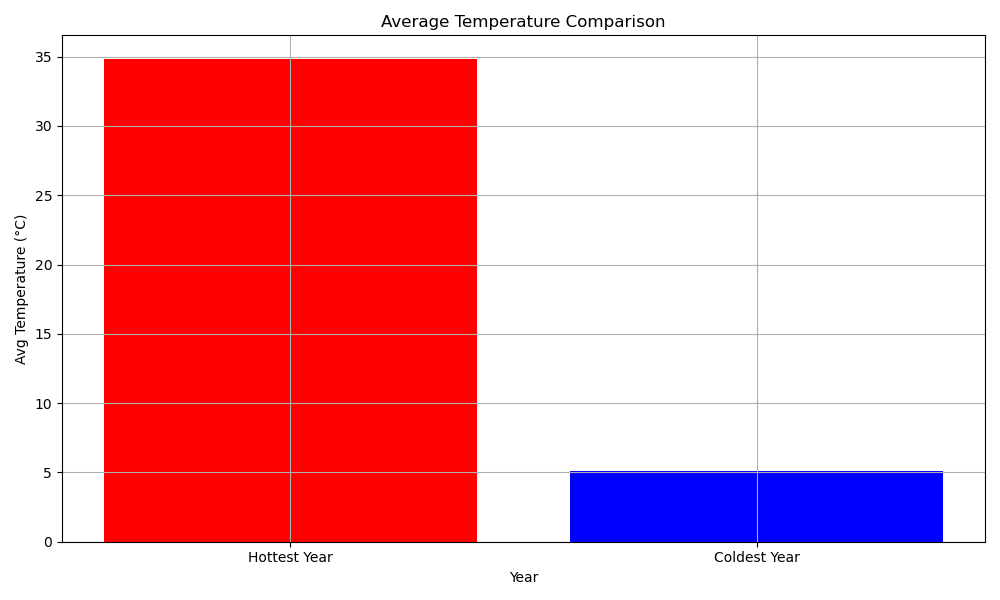
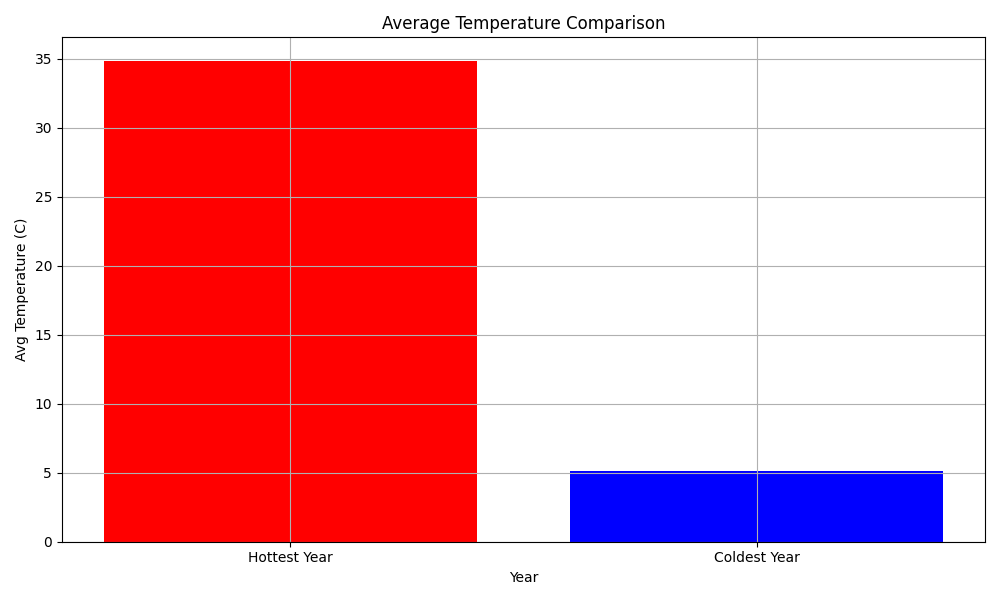
fixed error where file would not be read due to encoding of degree symbol.

diff --git a/connor_question2.py b/connor_question2.py
@@ -2,14 +2,14 @@ import matplotlib.pyplot as plt
 import pandas as pd
 import csv
 # Climate Change Data Analysis
-with open('climate_change_dataset_rounded.csv','r', encoding="latin1") as f:
+with open('climate_change_dataset_rounded.csv','r') as f:
     sv_reader=csv.reader(f)
     header_row = next(sv_reader)
     print(header_row)
     data = pd.read_csv("climate_change_dataset_rounded.csv", dtype= {
     "Country": "category",
     "Year": "int16",
-    "Avg Temperature (°C)": "float32",
+    "Avg Temperature (C)": "float32",
     "CO2_Emissions": "float32",
     "Sea Level Rise (mm)": "float32",
     "Rainfall (mm)": "float32",
@@ -21,24 +21,24 @@ with open('climate_change_dataset_rounded.csv','r', encoding="latin1") as f:
 #making the data more readable
 data['Country'] = data['Country'].astype('category')
 data['Year'] = data['Year'].astype('int16')
-data['Avg Temperature (°C)'] = data['Avg Temperature (°C)'].astype('float32')
+data['Avg Temperature (C)'] = data['Avg Temperature (C)'].astype('float32')
 data['Sea Level Rise (mm)'] = data['Sea Level Rise (mm)'].astype('float32')
 data['Rainfall (mm)'] = data['Rainfall (mm)'].astype('float32')
 data['Population'] = data['Population'].astype('int32')
 data['Renewable Energy (%)'] = data['Renewable Energy (%)'].astype('float32')
 data['Forest Area (%)'] = data['Forest Area (%)'].astype('float32')
 #The hottest year in the world
-hottest_year = data.loc[data['Avg Temperature (°C)'].idxmax()]
-print(f"The hottest year in the world is {hottest_year['Year']} with an average temperature of {hottest_year['Avg Temperature (°C)']}°C.")
+hottest_year = data.loc[data['Avg Temperature (C)'].idxmax()]
+print(f"The hottest year in the world is {hottest_year['Year']} with an average temperature of {hottest_year['Avg Temperature (C)']}°C.")
 #The coldest year in the world
-coldest_year = data.loc[data['Avg Temperature (°C)'].idxmin()]
-print(f"The coldest year in the world is {coldest_year['Year']} with an average temperature of {coldest_year['Avg Temperature (°C)']}°C.")
+coldest_year = data.loc[data['Avg Temperature (C)'].idxmin()]
+print(f"The coldest year in the world is {coldest_year['Year']} with an average temperature of {coldest_year['Avg Temperature (C)']}°C.")
 #Comparing the average temperature of the hottest and coldest year
 plt.figure(figsize=(10, 6))
-plt.bar(['Hottest Year', 'Coldest Year'], [hottest_year['Avg Temperature (°C)'], coldest_year['Avg Temperature (°C)']], color=['red', 'blue'])
+plt.bar(['Hottest Year', 'Coldest Year'], [hottest_year['Avg Temperature (C)'], coldest_year['Avg Temperature (C)']], color=['red', 'blue'])
 plt.title('Average Temperature Comparison')
 plt.xlabel('Year')
-plt.ylabel('Avg Temperature (°C)')
+plt.ylabel('Avg Temperature (C)')
 plt.grid()
 plt.tight_layout()
 plt.savefig('avg_temp_comparison.png')

diff --git a/charlotte_question2.py b/charlotte_question2.py
@@ -4,17 +4,17 @@ import pandas as pd
 file_path = r"climate_change_dataset_rounded.csv"
 df = pd.read_csv(file_path, encoding="latin1")
 
-# Group the data by 'Country' and calculate the mean of the 'Avg Temperature (°C)' for each country
-meanTempPerCountry = df.groupby("Country")[["Avg Temperature (°C)"]].mean().reset_index()
+# Group the data by 'Country' and calculate the mean of the 'Avg Temperature (C)' for each country
+meanTempPerCountry = df.groupby("Country")[["Avg Temperature (C)"]].mean().reset_index()
 
 # Sort the countries by their average temperature in ascending order
-meanTempPerCountry= meanTempPerCountry.sort_values(by="Avg Temperature (°C)", ascending=True)
+meanTempPerCountry= meanTempPerCountry.sort_values(by="Avg Temperature (C)", ascending=True)
 
 # Create the plot and define size of plot
 plt.figure(figsize=(12, 6))
  
 # Create a horizontal bar plot showing the average temperature by country
-plt.barh(meanTempPerCountry["Country"], meanTempPerCountry["Avg Temperature (°C)"], color="red")
+plt.barh(meanTempPerCountry["Country"], meanTempPerCountry["Avg Temperature (C)"], color="red")
 
 #Label axis
 plt.xlabel("Average Temperature (°C)")

diff --git a/ross_question2.py b/ross_question2.py
@@ -5,15 +5,15 @@ file_path = "climate_change_dataset_rounded.csv"
 df = pd.read_csv(file_path, encoding="latin1")
 
 #group data by year and calculate averages for temp and sea level
-yearly_avg = df.groupby("Year")[["Avg Temperature (°C)", "Sea Level Rise (mm)"]].mean().reset_index()
+yearly_avg = df.groupby("Year")[["Avg Temperature (C)", "Sea Level Rise (mm)"]].mean().reset_index()
 
 #creates line plot
 fig, ax1 = plt.subplots(figsize=(10, 6))
 
 #plots avg temp
 ax1.set_xlabel("Year")
-ax1.set_ylabel("Avg Temperature (°C)", color="tab:blue")
-ax1.plot(yearly_avg["Year"], yearly_avg["Avg Temperature (°C)"], color="tab:blue", label="Avg Temperature")
+ax1.set_ylabel("Avg Temperature (C)", color="tab:blue")
+ax1.plot(yearly_avg["Year"], yearly_avg["Avg Temperature (C)"], color="tab:blue", label="Avg Temperature")
 ax1.tick_params(axis='y', labelcolor="tab:blue")
 
 #creates second y-acis and plots sea level rise

diff --git a/kian_question2.py b/kian_question2.py
@@ -5,7 +5,7 @@ import matplotlib.pyplot as plt
 data = pd.read_csv("climate_change_dataset_rounded.csv", encoding="latin1", dtype= {
     "Country": "category",
     "Year": "int16",
-    "Avg Temperature (°C)": "float32",
+    "Avg Temperature (C)": "float32",
     "CO2_Emissions": "float32",
     "Sea Level Rise (mm)": "float32",
     "Rainfall (mm)": "float32",
@@ -27,9 +27,9 @@ fig, ax1 = plt.subplots(figsize=(10, 5))
 #plotting the average temperature on the primary y axis of the line graph
 ax1.set_xlabel("Year")
 
-ax1.set_ylabel("Avg Temperature (°C)", color="red")
+ax1.set_ylabel("Avg Temperature (C)", color="red")
 
-ax1.plot(data_country["Year"], data_country["Avg Temperature (°C)"], marker="o", color="red", label="Avg Temp")
+ax1.plot(data_country["Year"], data_country["Avg Temperature (C)"], marker="o", color="red", label="Avg Temp")
 
 ax1.tick_params(axis="y", labelcolor="red")
 

diff --git a/lola_question2.py b/lola_question2.py
@@ -6,14 +6,14 @@ df = pd.read_csv(file_path, encoding="latin1")
 
 
 df_global = df.groupby("Year").agg({
-    "Avg Temperature (°C)": "mean",
+    "Avg Temperature (C)": "mean",
     "Forest Area (%)": "mean"
 }).reset_index()
 fig, ax1 = plt.subplots(figsize=(15, 10))
 
-ax1.plot(df_global["Year"], df_global["Avg Temperature (°C)"], color="tab:red", marker="o", label="Avg Temperature (°C)")
+ax1.plot(df_global["Year"], df_global["Avg Temperature (C)"], color="tab:red", marker="o", label="Avg Temperature (C)")
 ax1.set_xlabel("Year")
-ax1.set_ylabel("Avg Temperature (°C))", color="tab:red")
+ax1.set_ylabel("Avg Temperature (C))", color="tab:red")
 ax1.tick_params(axis="y", labelcolor="tab:red")
 
 ax2 = ax1.twinx()

diff --git a/charlotte_question1.py b/charlotte_question1.py
@@ -11,7 +11,7 @@ canada_data = df[df["Country"] == "Canada"]
 fig, ax1 = plt.subplots(figsize=(10, 5))
 
 # Plot the average temperature in Canada over the years
-plt.plot(canada_data["Year"], canada_data["Avg Temperature (°C)"], marker="o", linestyle="-", color="b", label="Avg Temperature")
+plt.plot(canada_data["Year"], canada_data["Avg Temperature (C)"], marker="o", linestyle="-", color="b", label="Avg Temperature")
 
 # Label axis
 plt.ylabel("Avg Temperature (°C)")

diff --git a/connor_question1.py b/connor_question1.py
@@ -9,7 +9,7 @@ with open('climate_change_dataset_rounded.csv','r') as f:
     data = pd.read_csv("climate_change_dataset_rounded.csv", dtype= {
     "Country": "category",
     "Year": "int16",
-    "Avg Temperature (°C)": "float32",
+    "Avg Temperature (C)": "float32",
     "CO2_Emissions": "float32",
     "Sea Level Rise (mm)": "float32",
     "Rainfall (mm)": "float32",

diff --git a/kian_question1.py b/kian_question1.py
@@ -10,7 +10,7 @@ with open('climate_change_dataset_rounded.csv','r') as f:
 data = pd.read_csv("climate_change_dataset_rounded.csv", dtype= {
     "Country": "category",
     "Year": "int16",
-    "Avg Temperature (°C)": "float32",
+    "Avg Temperature (C)": "float32",
     "CO2_Emissions": "float32",
     "Sea Level Rise (mm)": "float32",
     "Rainfall (mm)": "float32",

diff --git a/elliot_question2.py b/elliot_question2.py
@@ -7,7 +7,7 @@ file_path = "climate_change_dataset_rounded.csv"
 df = pd.read_csv(file_path, dtype= {
     "Country": "category",
     "Year": "int16",
-    "Avg Temperature (°C)": "float32",
+    "Avg Temperature (C)": "float32",
     "CO2_Emissions": "float32",
     "Sea Level Rise (mm)": "float32",
     "Rainfall (mm)": "float32",

diff --git a/elliot_question1.py b/elliot_question1.py
@@ -7,7 +7,7 @@ path = "climate_change_dataset_rounded.csv"
 df = pd.read_csv(path, dtype= {
     "Country": "category",
     "Year": "int16",
-    "Avg Temperature (°C)": "float32",
+    "Avg Temperature (C)": "float32",
     "CO2_Emissions": "float32",
     "Sea Level Rise (mm)": "float32",
     "Rainfall (mm)": "float32",
